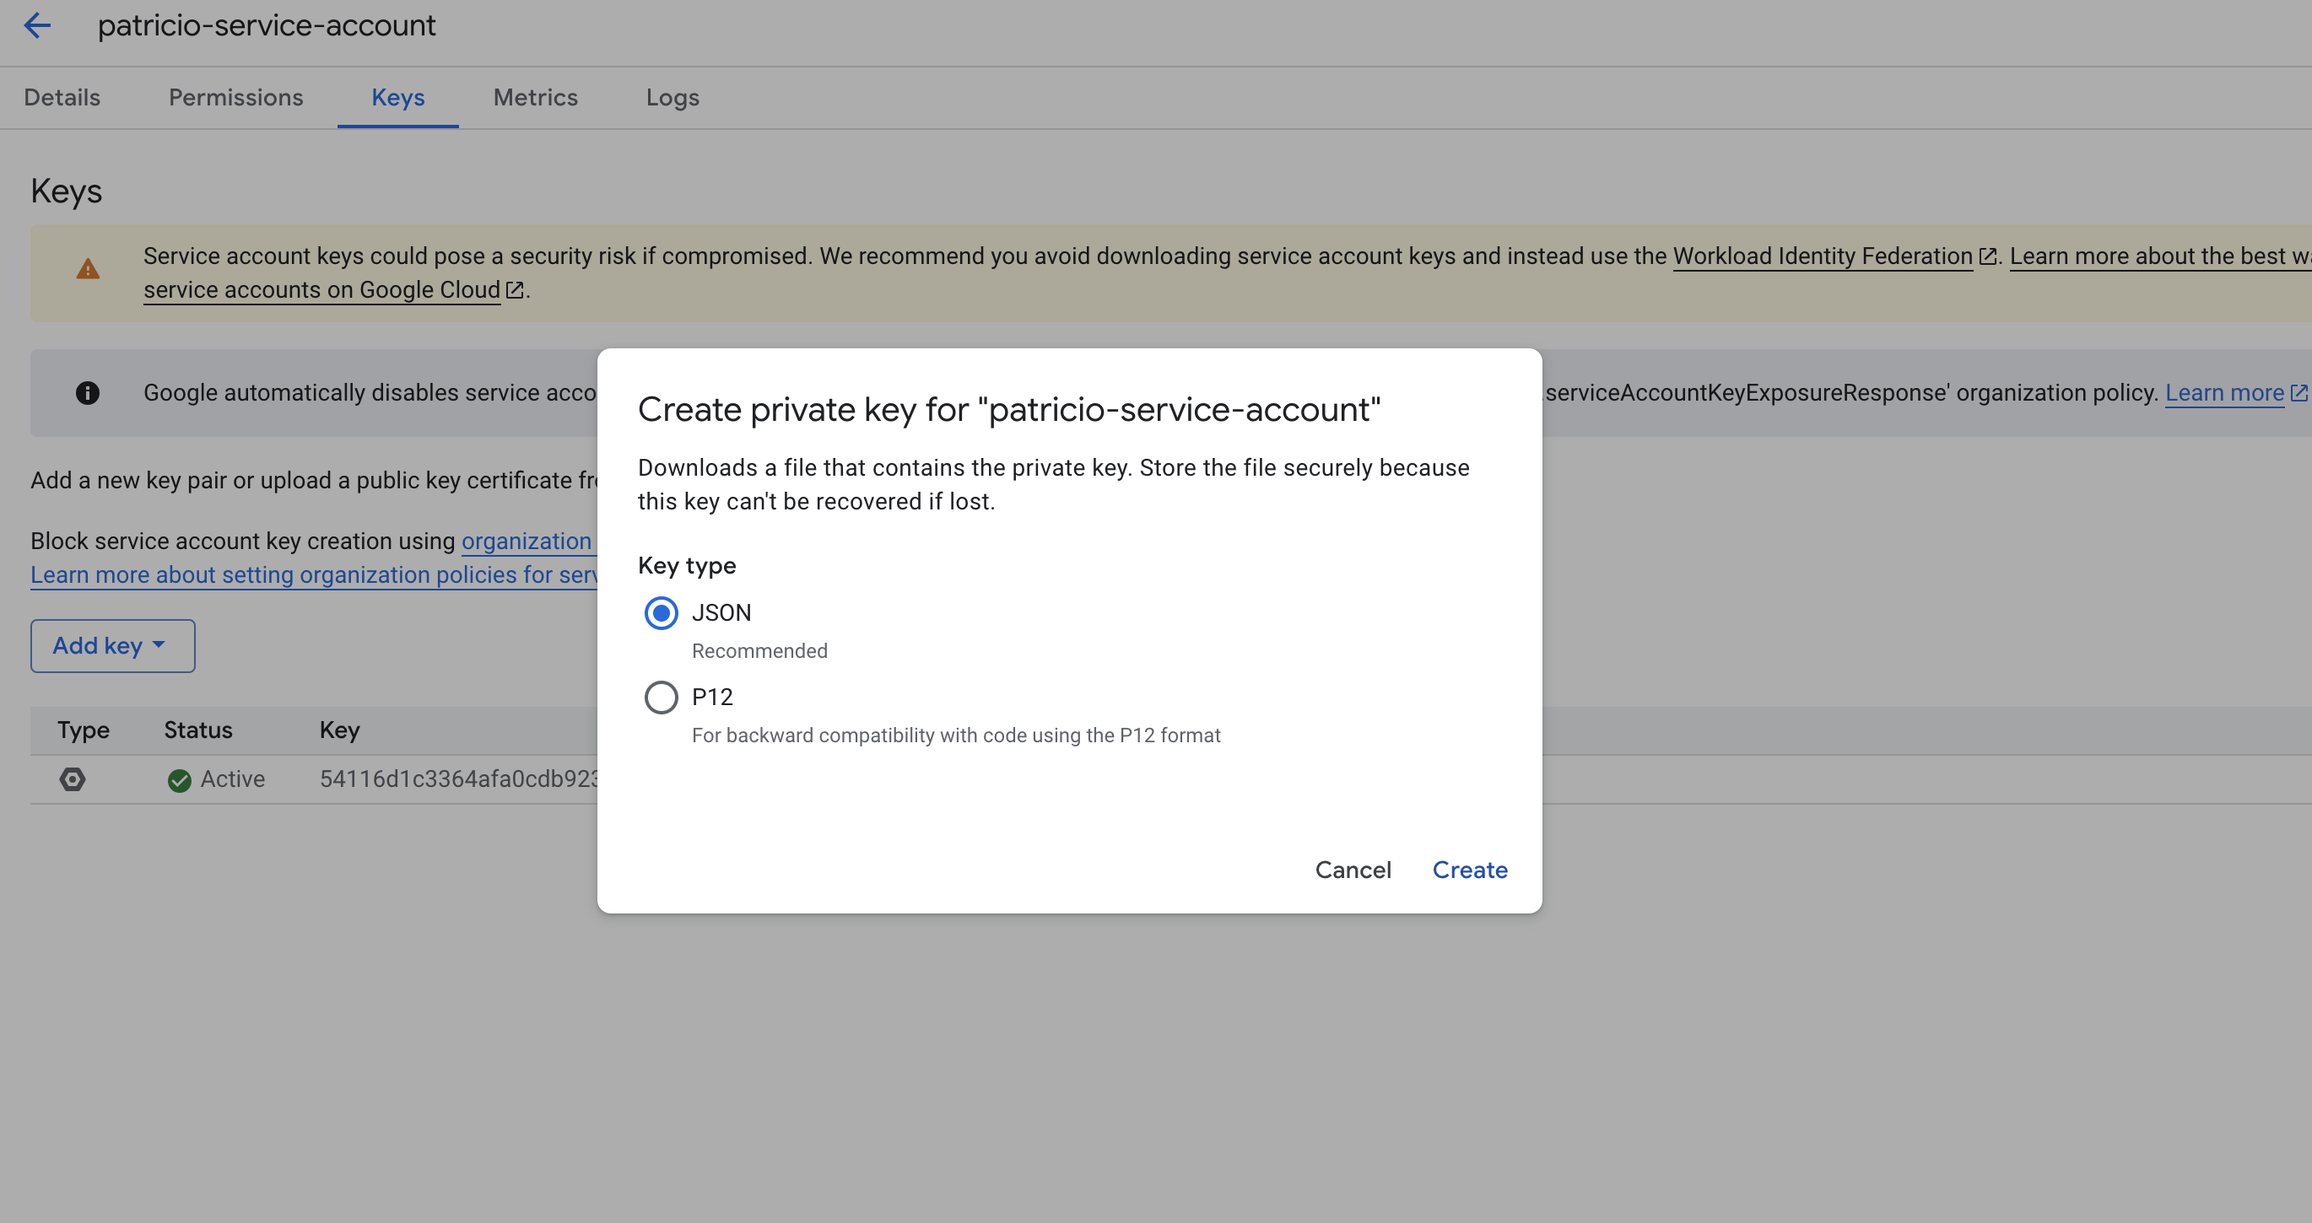
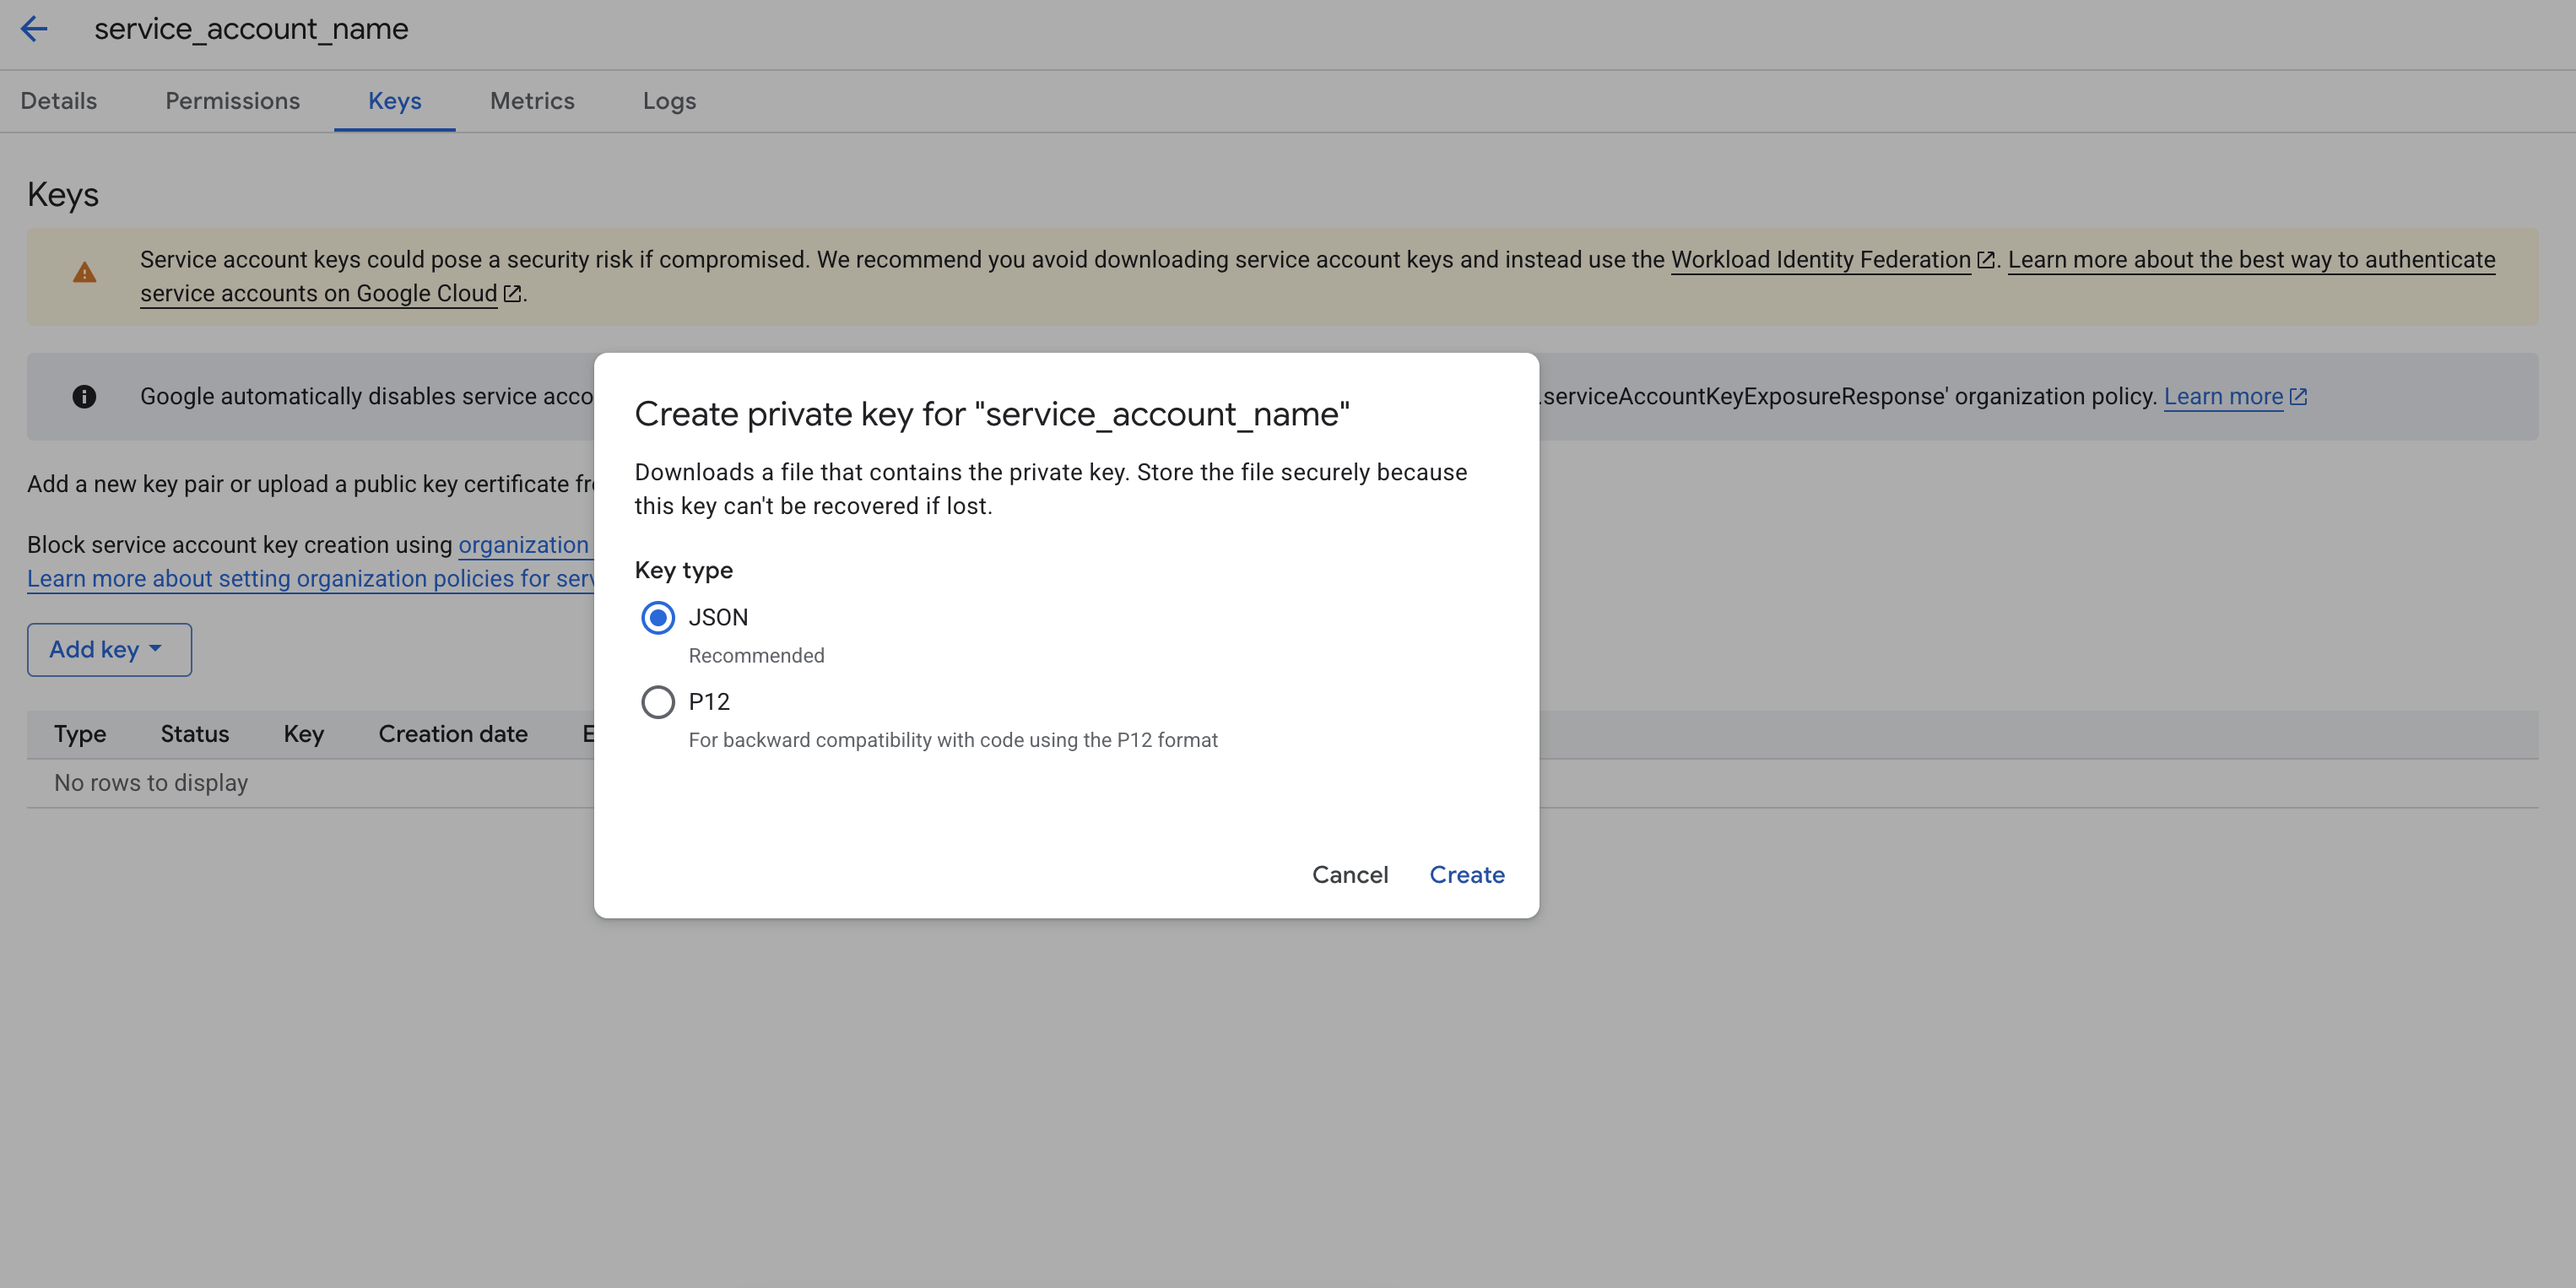
updating images and missing secret step

diff --git a/doc/storage/GCP/keyandhelm.md b/doc/storage/GCP/keyandhelm.md
@@ -14,9 +14,9 @@ Now that you have storage, service account and key the next step is to configure
 zeebe:
   env:
     - name: ZEEBE_BROKER_DATA_BACKUP_GCS_BUCKETNAME
-      value: "patricio-test"
+      value: "storage_name"
     - name: ZEEBE_BROKER_DATA_BACKUP_GCS_BASEPATH
-      value: "patricio-storage"
+      value: "some-directory"
     - name: ZEEBE_BROKER_DATA_BACKUP_STORE
       value: "GCS"
     - name: GOOGLE_APPLICATION_CREDENTIALS
@@ -38,7 +38,13 @@ zeebe:
 
 The google `basepath` is the container name. Zeebe will create snapshots on that repository. It is not possible to give a path to the value, and the data will be stored at the root level.
 
-1.2 Restart the cluster
+1.2
+
+Create a Kubernetes secret that will be used by Camunda.
+
+kubectl create secret generic gcp-credentials --from-literal "key.json=$(cat key.json)" -n camunda
+
+1.3 Restart the cluster
 
 Run the command
 ```shell

diff --git a/doc/storage/GCP/serviceaccountcreation.md b/doc/storage/GCP/serviceaccountcreation.md
@@ -11,7 +11,7 @@ It is required to have a service account in order to have your cluster and Camun
 
 2. Click create service account
 
-3. Fill out the service account name with your preference and add a description
+3. Fill out the service account name with your preference and add a description (optional).
 
 ![Service account name](image/nameservice.png)
 

diff --git a/doc/storage/GCP/GooglePrerequisite.md b/doc/storage/GCP/GooglePrerequisite.md
@@ -2,11 +2,11 @@
 
 Login to Google Cloud and go to Cloud Storage (This can be searched with the search bar) then follow the next steps.
 
-1. Click on Create Bucket
+
+
+1. Go to buckets and click on create bucket
 
 ![Create Bucket ](image/createbucket.png)
-
-
 
 
 2. Choose a name and leave the rest of the configurations as default
